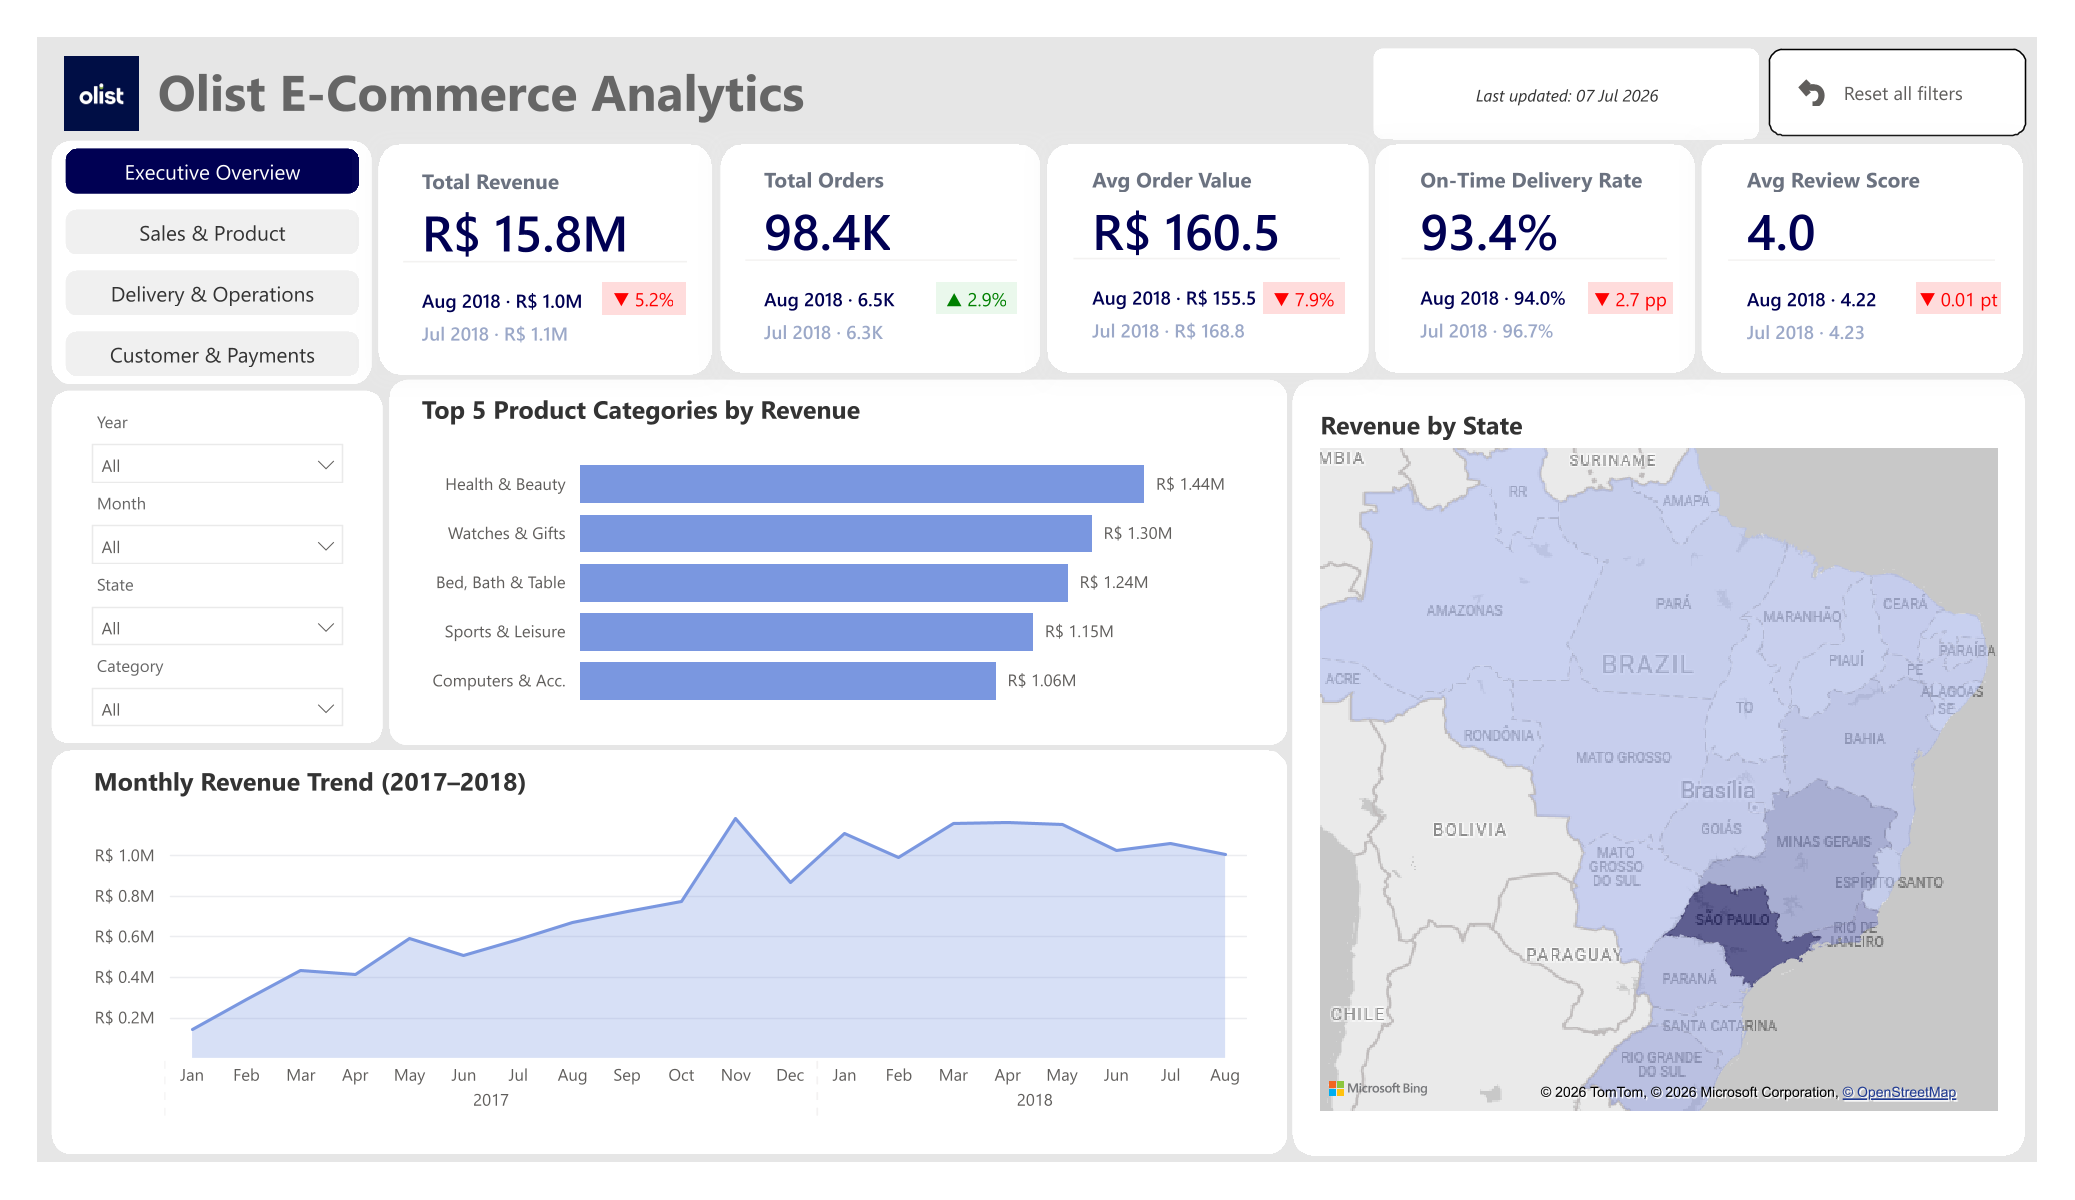
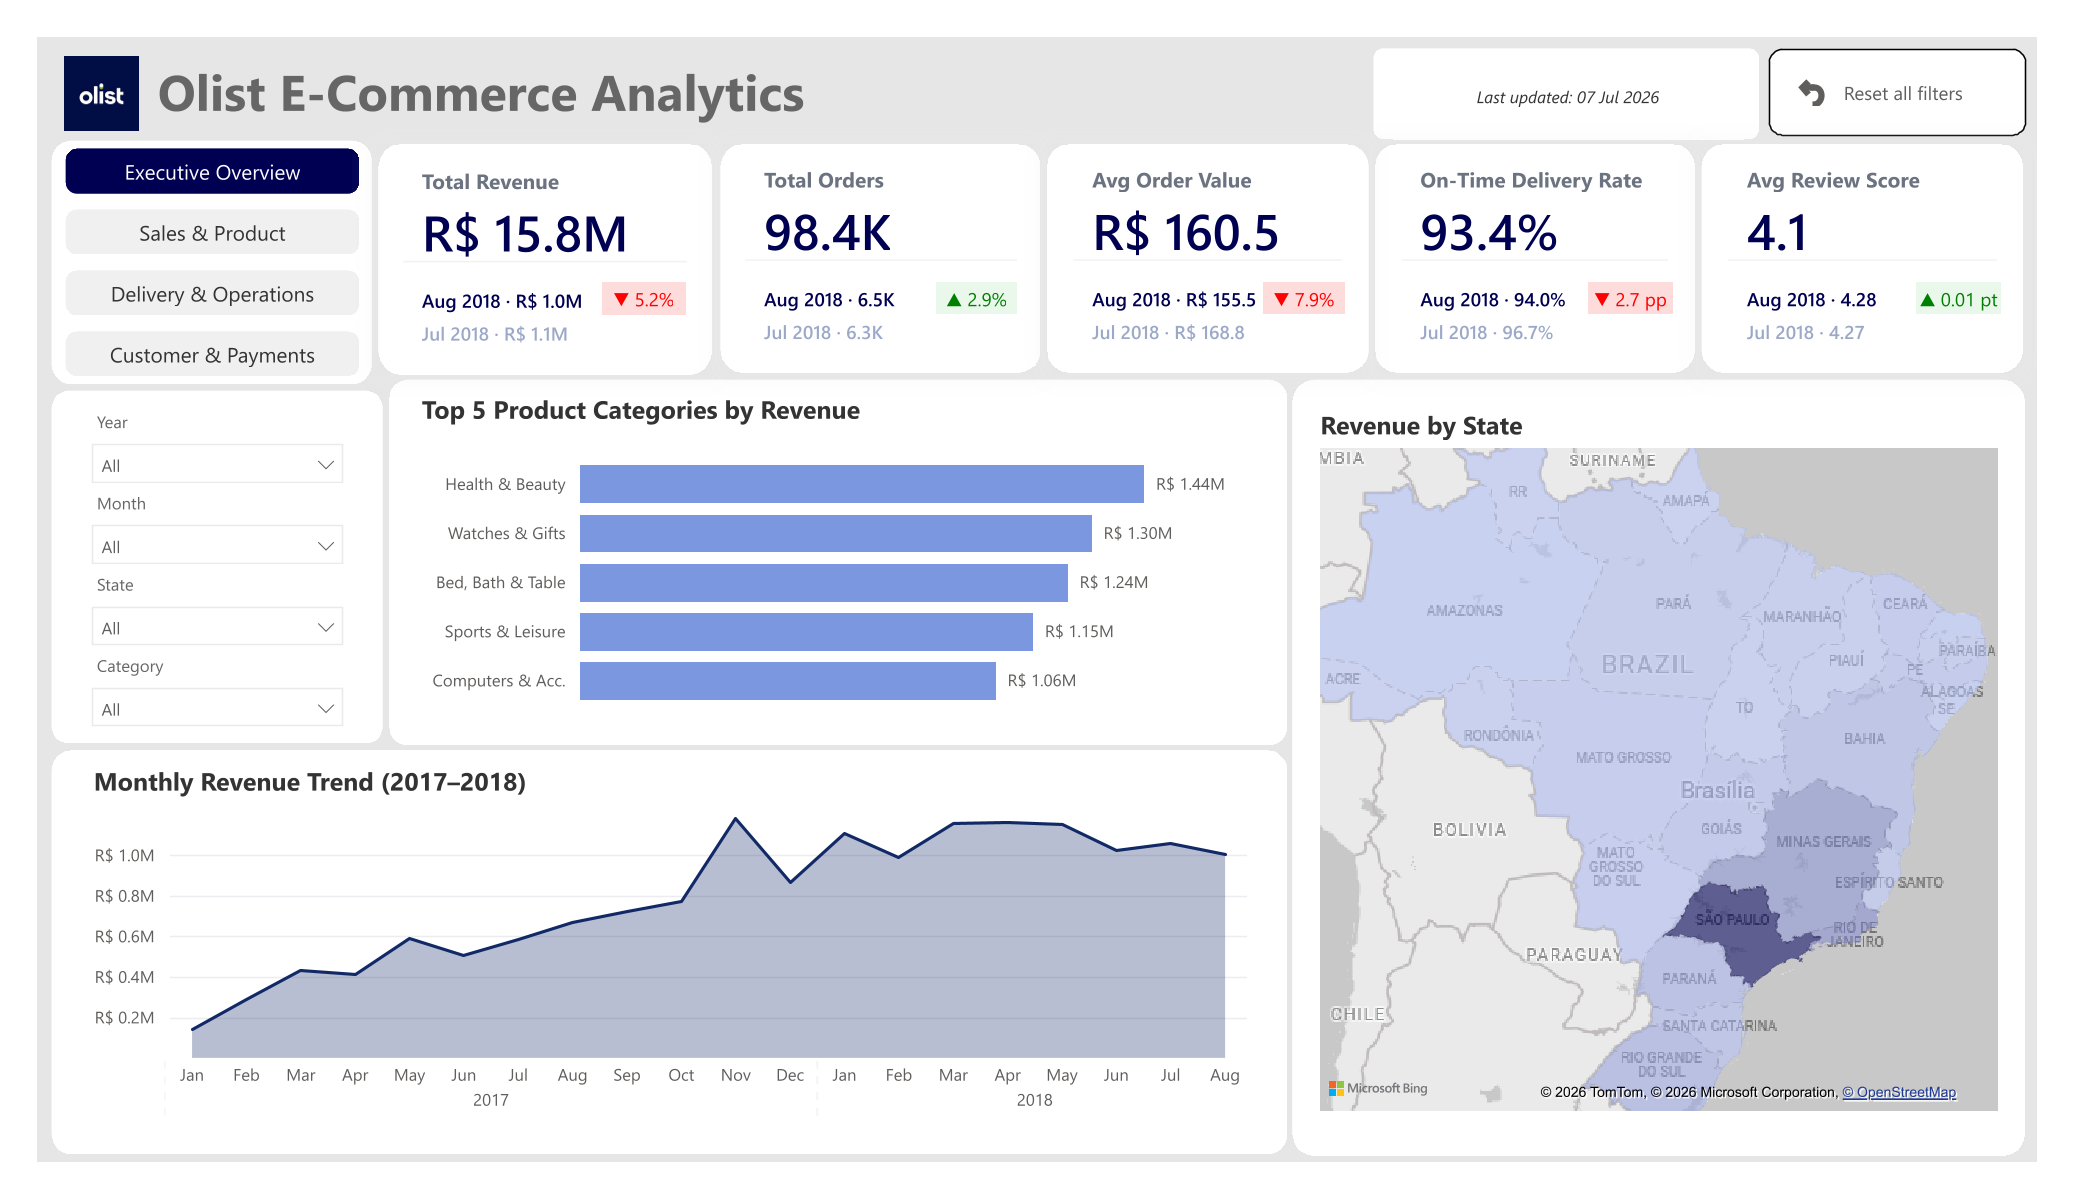
feat: integrate review submission rate metric in power bi dashboard page4 trendline-visual in addition to avg review score fix: avg review score metric -> by order, not by order position fix: unique customers metric -> based on customer-unique-id from dim-customer table and filtered by fact-sales ta

diff --git a/Readme.md b/Readme.md
@@ -234,23 +234,31 @@ pipeline_config
 
 ## Power BI Dashboard
 
-Das 4-seitige Dashboard deckt die zentralen analytischen Domänen der Plattform ab: Gesamtkennzahlen, Produkt- und Vertriebsanalyse, Lieferperformance sowie Kunden- und Zahlungsverhalten. Jede Seite enthält KPI-Cards mit MoM-Delta, themenspezifische Trendanalysen und einen gemeinsamen Filterbereich (Jahr, Monat, Bundesstaat, Produktkategorie).
+Das 4-seitige Dashboard deckt die zentralen analytischen Domänen der Plattform ab: Umsatz, Bestellmenge und Servicequalität im Überblick, Produkt- und Vertriebsanalyse, Lieferperformance sowie Kunden- und Zahlungsverhalten. Jede der vier Seiten kombiniert KPI-Cards mit Vormonatsvergleich, themenspezifische Trendanalysen und einen gemeinsamen Filterbereich.
 
 > **Hinweis:** Der Report ist auf den Zeitraum Januar 2017 – August 2018 eingeschränkt. Sep–Dez 2016 (Ramp-up, sehr geringes Volumen) und Sep 2018 (unvollständiger Abschlussmonat) sind aus den Visualisierungen ausgeblendet. Die zugrundeliegenden Mart-Tabellen enthalten den vollen Datensatz 2016–2018.
 
 ### Seite 1: Executive Overview
 
+Beantwortet, wie sich die Plattform im gewählten Zeitraum insgesamt entwickelt: Umsatz, Bestellmenge und durchschnittlicher Bestellwert, dazu Liefertreue und Bewertungsniveau als die beiden Qualitätskennzahlen, jeweils mit Vormonatsvergleich. Ergänzt um die umsatzstärksten Produktkategorien, die Verteilung über die brasilianischen Bundesstaaten und den Umsatzverlauf über die zwei Jahre. Einstiegspunkt für die drei folgenden Seiten, die jeweils eine Domäne vertiefen.
+
 ![Executive Overview](docs/images/dashboard/page1_executive_overview.png)
 
 ### Seite 2: Sales & Product
+
+Beantwortet, woraus der Umsatz entsteht und was er an Fracht kostet: Stückzahl, Durchschnittspreis und Frachtanteil je Kategorie fallen deutlich auseinander. Bed, Bath & Table führt mit 11.107 Artikeln die Mengenrangliste an, trägt aber mit R$ 93,3 den niedrigsten Durchschnittspreis und mit 16,5% den höchsten Frachtanteil; Watches & Gifts liegt mit R$ 200,7 und 7,7% spiegelbildlich dazu. Der Frachtanteil ist das Verhältnis von Frachtkosten zu Warenwert und steigt damit nicht nur bei niedrigem Preis, sondern ebenso mit Gewicht und Volumen der Ware. Bei sperrigen Heimtextilien fällt beides zusammen. Ergänzt wird die Seite um den Umsatzverlauf der fünf stärksten Kategorien über die zwei Jahre.
 
 ![Sales & Product](docs/images/dashboard/page2_sales_and_product.png)
 
 ### Seite 3: Delivery & Operations
 
+Beantwortet, wie zuverlässig geliefert wird und wie belastbar diese Aussage ist: 93,4% der Bestellungen erreichen den Kunden bis zum zugesagten Termin, im Mittel jedoch zwölf Tage davor, und 71.000 der rund 96.000 zugestellten Bestellungen treffen mehr als eine Woche zu früh ein. Die Liefertreue misst damit ebenso sehr, wie konservativ der Liefertermin geschätzt wird, wie die Leistung der Logistik. Die Seite zeigt Laufzeit und Termintreue je Bundesstaat, wo Rio de Janeiro mit 88,3% deutlich zurückbleibt, dazu den Verlauf über die Zeit, die Verteilung nach Abweichung zum Zieltermin und die Auftragsstatus-Struktur.
+
 ![Delivery & Operations](docs/images/dashboard/page3_delivery_and_operations.png)
 
 ### Seite 4: Customer & Payments
+
+Beantwortet, wer kauft, wie bezahlt wird und wie zufrieden die Kundschaft ist: Auf 95.121 Kunden kommen 98.353 Bestellungen, das Wachstum läuft also praktisch vollständig über Neukunden. Die Nachfrage konzentriert sich stark auf den Südosten, allein São Paulo stellt 39.875 davon. Bezahlt wird überwiegend per Kreditkarte (78,4% Anteil, R$ 12,5 Mio. Transaktionswert), gefolgt vom brasilianischen Bankbeleg Boleto mit R$ 2,9 Mio. Die Bewertungen sind polarisiert: 56.500 Fünf-Sterne-Urteilen stehen 10.600 Ein-Stern-Urteile gegenüber, mehr als die 8.000 der mittleren Stufe. Ergänzt um die Ratenzahlungsstruktur und den Verlauf von Bewertungsschnitt und Abgabequote.
 
 ![Customer & Payments](docs/images/dashboard/page4_customer_and_payments.png)
 
